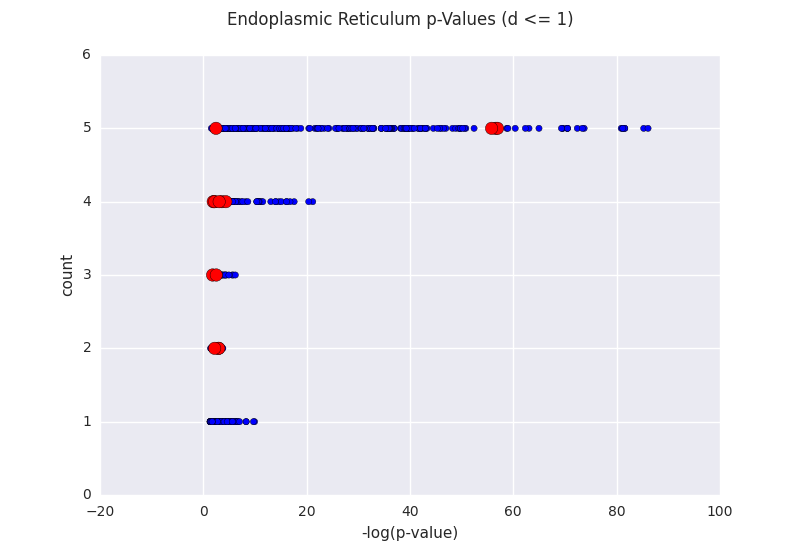
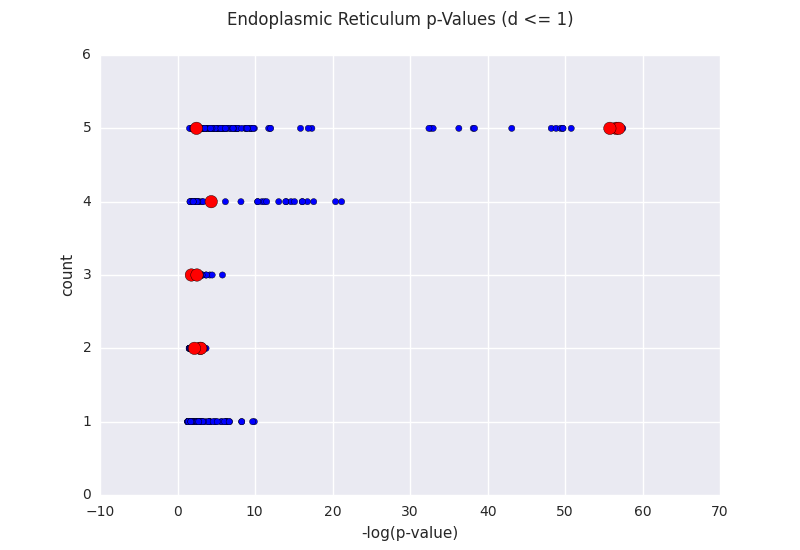
added all plots

diff --git a/scripts/14_create_localization_stripplot.py b/scripts/14_create_localization_stripplot.py
@@ -68,15 +68,15 @@ def is_localization(ID, labels):
 def is_localization_or_ER(ID, labels):
     return is_ER(ID, labels) and is_localization(ID, labels)
 
-#generate_stripplot(1, is_ER, 'Endoplasmic Reticulum p-Values (d <= 1)',
-#                   'output/figures/ER_stripplot_up-to-1.png')
-#generate_stripplot(1, is_localization, 'Protein Localization p-Values (d <= 1)',
-#                   'output/figures/protein-localization_stripplot_up-to-1.png')
+generate_stripplot(1, is_ER, 'Endoplasmic Reticulum p-Values (d <= 1)',
+                   'output/figures/ER_stripplot_up-to-1.png')
+generate_stripplot(1, is_localization, 'Protein Localization p-Values (d <= 1)',
+                   'output/figures/protein-localization_stripplot_up-to-1.png')
 generate_stripplot(1, is_localization_or_ER, 'Endoplasmic Reticulum & Protein Localization p-Values (d <= 1)',
                    'output/figures/protein-localization_ER_stripplot_up-to-1.png')
-#generate_stripplot(0, is_ER, 'Endoplasmic Reticulum p-Values (d = 0)',
-#                   'output/figures/ER_stripplot_up-to-0.png')
-#generate_stripplot(0, is_localization, 'Protein Localization p-Values (d = 0)',
-#                   'output/figures/protein-localization_stripplot_up-to-0.png')
-#generate_stripplot(0, is_localization_or_ER, 'Endoplasmic Reticulum & Protein Localization p-Values (d = 0)',
-#                   'output/figures/protein-localization_ER_stripplot_up-to-0.png')
+generate_stripplot(0, is_ER, 'Endoplasmic Reticulum p-Values (d = 0)',
+                   'output/figures/ER_stripplot_up-to-0.png')
+generate_stripplot(0, is_localization, 'Protein Localization p-Values (d = 0)',
+                   'output/figures/protein-localization_stripplot_up-to-0.png')
+generate_stripplot(0, is_localization_or_ER, 'Endoplasmic Reticulum & Protein Localization p-Values (d = 0)',
+                   'output/figures/protein-localization_ER_stripplot_up-to-0.png')
